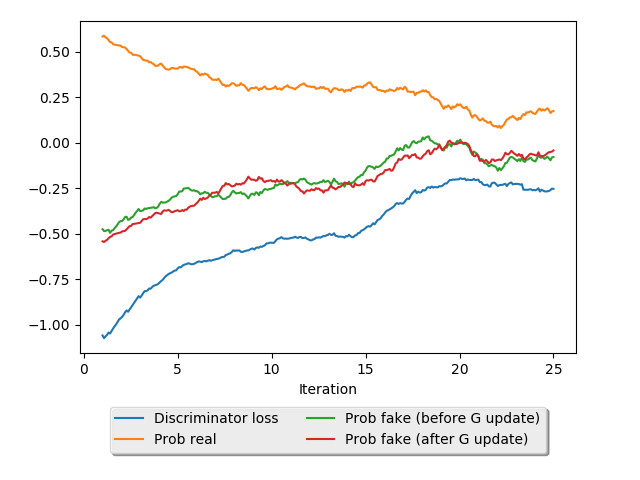
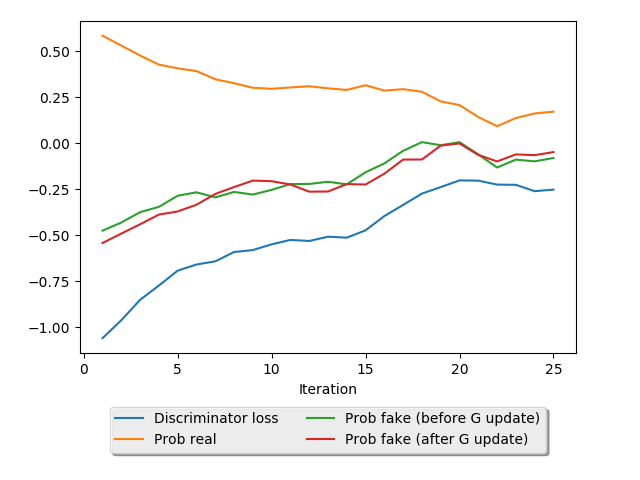
Splining

diff --git a/src/viz.py b/src/viz.py
@@ -5,12 +5,13 @@ import matplotlib as mpl
 mpl.use('Agg')
 import matplotlib.pyplot as plt
 import numpy as np
+from scipy.interpolate import spline
 
 import config
 
 
 parser = argparse.ArgumentParser()
-parser.add_argument('--naverage', type=int, help='number of periods over which to average', default=20)
+parser.add_argument('--naverage', type=int, help='number of periods over which to average', default=50)
 args = parser.parse_args()
 
 columns = [
@@ -25,18 +26,18 @@ with open(path.join(config.path_outputs, 'loss_history.pkl'), 'rb') as f:
     loss_history = pickle.load(f)
 
 # smooth loss curves via moving average
-losses = np.array(loss_history)
-smoothed = np.vstack(
-    [np.convolve(series, np.ones(args.naverage) / args.naverage)
-     for series in losses.T]).T[args.naverage - 1:-args.naverage + 1, :]
-
-# create x axis
 epochs = 25  # TODO: read this dynamically
-x = np.linspace(1, epochs, smoothed.shape[0])
+losses = np.array(loss_history)
+ma = np.vstack(
+    [np.convolve(series, np.ones(args.naverage) / args.naverage)
+     for series in losses.T]).T[args.naverage - 1:-args.naverage, :]
+x = np.linspace(1, epochs, ma.shape[0])
+xnew = np.linspace(x.min(), x.max(), epochs)
+smoothed = np.vstack([spline(x, s, xnew) for s in ma.T]).T
 
 fig, ax = plt.subplots()
 for i, series in enumerate(smoothed.T):
-    ax.plot(x, series, label=columns[i])
+    ax.plot(xnew, series, label=columns[i])
 
 box = ax.get_position()
 ax.set_position([box.x0, box.y0 + box.height * 0.2, box.width, box.height * 0.9])
